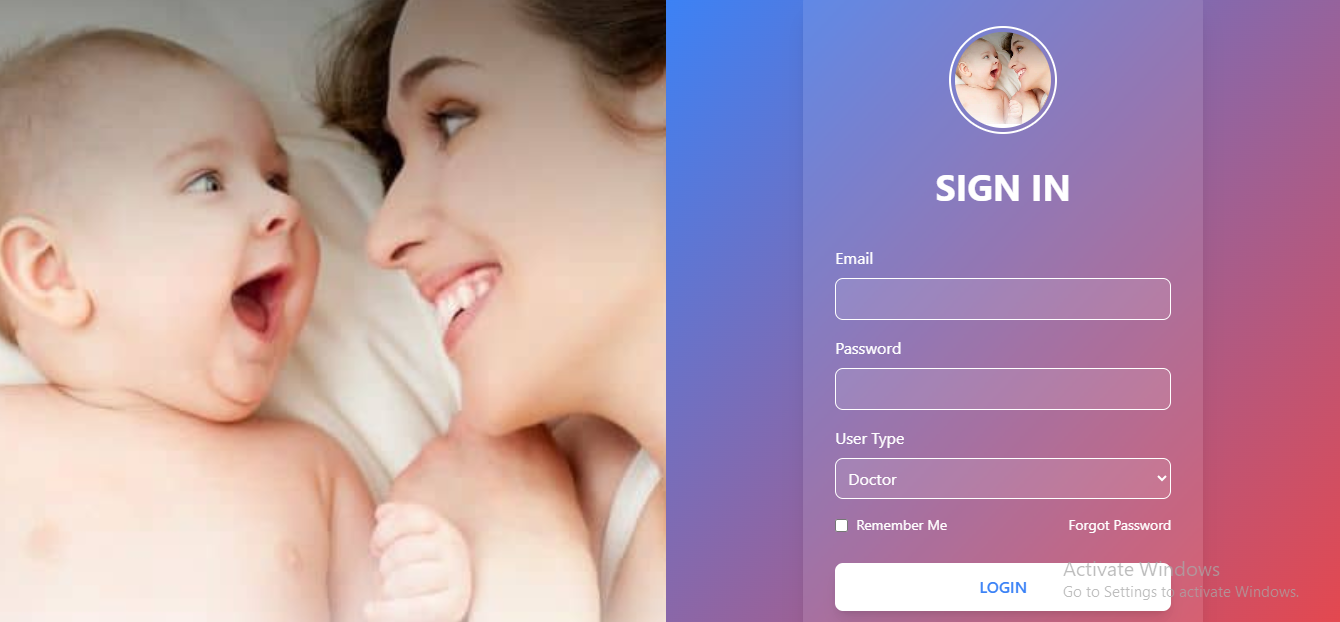
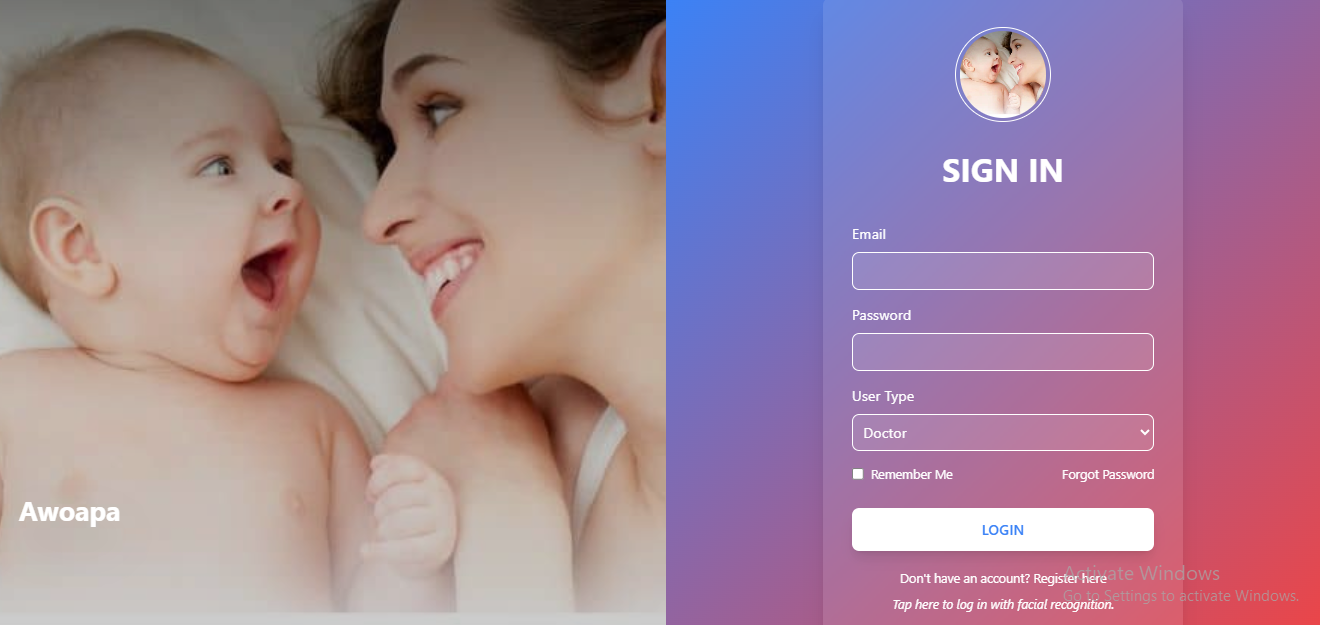
backend connect

diff --git a/src/components/admin-home.jsx b/src/components/admin-home.jsx
@@ -2,6 +2,8 @@ import React, { useState } from 'react';
 import pregnancyImg from '../assets/pregnancy.png';
 import axios from 'axios';
 import { useNavigate, useLocation } from 'react-router-dom';
+import { motion } from 'framer-motion';
+import { FaBell, FaHeadset, FaUsers, FaUserCircle, FaSignOutAlt, FaCog, FaMapMarkerAlt } from 'react-icons/fa';
 
 export default function AdminHomePage() {
   const navigate = useNavigate();
@@ -9,7 +11,7 @@ export default function AdminHomePage() {
 
   // ✅ Use from navigation state or fallback to test email
   const userEmail = location.state?.userEmail || "admin@example.com"; 
-
+  const [showUserMenu, setShowUserMenu] = useState(false);
   const [selectedPage, setSelectedPage] = useState('Dashboard');
 
   const logout = async () => {
@@ -29,29 +31,45 @@ export default function AdminHomePage() {
   };
 
   const renderDashboard = () => (
-    <div className="space-y-4">
-      {renderCard('Notifications', 'orange', () => navigate('/admin-notification'))}
-      {renderCard('Support', 'green', () => navigate('/admin/support'))}
-      {renderCard('View All Awopa Users', 'blue', () => navigate('/admin/users'))}
-    </div>
-  );
-
-  const renderCard = (title, color, onClick) => (
-    <div
-      onClick={onClick}
-      className="bg-white rounded-xl shadow-lg p-4 flex items-center gap-4 cursor-pointer hover:bg-gray-50"
-    >
-      <div className={`w-12 h-12 flex items-center justify-center rounded-full bg-${color}-100`}>
-        <div className={`text-${color}-500 text-xl`}>
-          <i className="fas fa-bell" />
+    <div className="space-y-4 max-w-4xl mx-auto">
+      <div className="bg-white rounded-xl shadow-lg p-6">
+        <div className="grid grid-cols-1 md:grid-cols-3 gap-4">
+          <div 
+            onClick={() => navigate('/admin-notification')}
+            className="p-4 flex flex-col items-center gap-2 cursor-pointer hover:bg-gray-50 rounded-lg transition-colors"
+          >
+            <div className="w-16 h-16 flex items-center justify-center rounded-full bg-orange-100">
+              <FaBell className="text-orange-500 text-2xl" />
+            </div>
+            <div className="text-lg font-semibold text-gray-800 text-center">Notifications</div>
+          </div>
+          
+          <div 
+            onClick={() => navigate('/admin/support')}
+            className="p-4 flex flex-col items-center gap-2 cursor-pointer hover:bg-gray-50 rounded-lg transition-colors"
+          >
+            <div className="w-16 h-16 flex items-center justify-center rounded-full bg-green-100">
+              <FaHeadset className="text-green-500 text-2xl" />
+            </div>
+            <div className="text-lg font-semibold text-gray-800 text-center">Support</div>
+          </div>
+          
+          <div 
+            onClick={() => navigate('/admin/users')}
+            className="p-4 flex flex-col items-center gap-2 cursor-pointer hover:bg-gray-50 rounded-lg transition-colors"
+          >
+            <div className="w-16 h-16 flex items-center justify-center rounded-full bg-blue-100">
+              <FaUsers className="text-blue-500 text-2xl" />
+            </div>
+            <div className="text-lg font-semibold text-gray-800 text-center">View All Users</div>
+          </div>
         </div>
       </div>
-      <div className="text-lg font-semibold text-gray-800">{title}</div>
     </div>
   );
 
   const renderPage = () => (
-    <div className="text-center">
+    <div className="text-center max-w-4xl mx-auto">
       <button
         className="mb-4 text-blue-500 underline"
         onClick={() => setSelectedPage('Dashboard')}
@@ -63,43 +81,78 @@ export default function AdminHomePage() {
     </div>
   );
 
-  const showUserInfo = () => {
-    const confirmed = window.confirm(`${userEmail}\n\nDo you want to view profile or logout?`);
-    if (confirmed) {
-      navigate('/admin/profile');
-    }
-  };
+  const UserMenu = () => (
+    <motion.div
+      initial={{ opacity: 0, y: -10 }}
+      animate={{ opacity: 1, y: 0 }}
+      exit={{ opacity: 0, y: -10 }}
+      transition={{ duration: 0.2 }}
+      className="absolute right-0 mt-2 w-56 bg-white rounded-md shadow-lg z-50"
+    >
+      <div className="p-4">
+        <div className="flex items-center mb-4">
+          <FaUserCircle className="text-gray-500 mr-3" />
+          <span className="text-gray-700">{userEmail}</span>
+        </div>
+        
+        <div className="border-t pt-2">
+          <div className="flex items-center py-2 hover:bg-gray-100 cursor-pointer px-2 rounded">
+            <FaCog className="text-gray-500 mr-3" />
+            <span>Settings</span>
+          </div>
+          <div className="flex items-center py-2 hover:bg-gray-100 cursor-pointer px-2 rounded">
+            <FaMapMarkerAlt className="text-gray-500 mr-3" />
+            <span>View Live Location Of PregMama</span>
+          </div>
+        </div>
+        
+        <div className="border-t pt-2">
+          <div 
+            className="flex items-center py-2 text-red-500 hover:bg-gray-100 cursor-pointer px-2 rounded"
+            onClick={logout}
+          >
+            <FaSignOutAlt className="mr-3" />
+            <span>Logout</span>
+          </div>
+        </div>
+      </div>
+    </motion.div>
+  );
 
   return (
-    <div className="relative w-full h-screen">
+    <div className="relative w-full min-h-screen">
       <img
         src={pregnancyImg}
         alt="Background"
         className="absolute w-full h-full object-cover z-0"
       />
-      <div className="absolute w-full h-full bg-black opacity-60 z-10" />
       <div className="relative z-20 p-6">
-        <header className="flex justify-between items-center mb-6">      
-          <div className="flex justify-center w-full">
-  <h1 className="text-white text-2xl font-bold">Admin Panel</h1>
-</div>
-          <div className="flex items-center gap-4">
-            <div
-              onClick={showUserInfo}
-              className="w-10 h-10 bg-white text-blue-700 flex items-center justify-center rounded-full font-bold cursor-pointer"
-            >
-              {userEmail[0]?.toUpperCase() || 'A'}
+        {/* Admin Panel Header with User Controls */}
+        <motion.div
+          initial={{ y: -50, opacity: 0 }}
+          animate={{ y: 0, opacity: 1 }}
+          transition={{ duration: 0.5 }}
+          className="max-w-6xl mx-auto mb-8"
+        >
+          <div className="bg-white rounded-lg shadow-md overflow-hidden">
+            <div className="bg-cyan-600 text-white p-4 flex justify-center items-center relative">
+              <h1 className="text-xl font-bold text-center">Admin Panel</h1>
+              <div className="absolute right-4">
+                <div
+                  onClick={() => setShowUserMenu(!showUserMenu)}
+                  className="w-10 h-10 bg-white text-blue-700 flex items-center justify-center rounded-full font-bold cursor-pointer"
+                  title={userEmail}
+                >
+                  <FaUserCircle className="text-xl" />
+                </div>
+                {showUserMenu && <UserMenu />}
+              </div>
             </div>
-            <button
-              onClick={logout}
-              className="px-4 py-2 bg-red-600 text-white rounded hover:bg-red-700"
-            >
-              Logout
-            </button>
           </div>
-        </header>
+        </motion.div>
 
-        <main className="bg-white bg-opacity-90 p-6 rounded-xl shadow-lg">
+        {/* Main Content */}
+        <main className="bg-white bg-opacity-90 p-6 rounded-xl shadow-lg max-w-6xl mx-auto">
           {selectedPage === 'Dashboard' ? renderDashboard() : renderPage()}
         </main>
       </div>

diff --git a/src/components/Login.jsx b/src/components/Login.jsx
@@ -23,7 +23,7 @@ export default function Login() {
   const [displayText, setDisplayText] = useState('');
   const [isTyping, setIsTyping] = useState(true);
   const [animationPhase, setAnimationPhase] = useState(0);
-  const fullText = 'Welcome To Awopa';
+  const fullText = 'Welcome To Awoapa';
 
   // Complex typewriter effect
   useEffect(() => {
@@ -89,10 +89,10 @@ export default function Login() {
           }, 50);
           break;
 
-        case 4: // Type final "Awopa" and stay
+        case 4: // Type final "Awoapa" and stay
           timer = setInterval(() => {
-            if (index < 5) { // "Awopa" is 5 characters
-              setDisplayText('Awopa'.slice(0, index + 1));
+            if (index < 6) { // "Awoapa" is 6 characters
+              setDisplayText('Awoapa'.slice(0, index + 1));
               index++;
             } else {
               clearInterval(timer);

diff --git a/src/components/Register.jsx b/src/components/Register.jsx
@@ -111,7 +111,7 @@ export default function Register() {
             </div>
           </div>
 
-          <h2 className="text-4xl text-white font-bold text-center mb-8">Register On Awopa</h2>
+          <h2 className="text-4xl text-white font-bold text-center mb-8">Register On Awoapa</h2>
 
           {message && (
             <div className={`mb-4 p-2 rounded text-center ${
